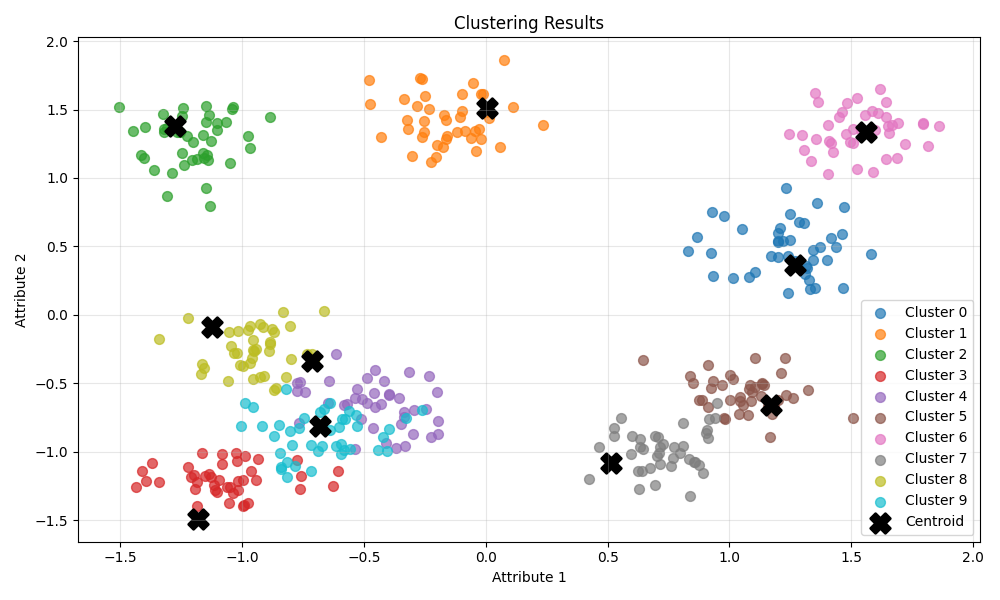
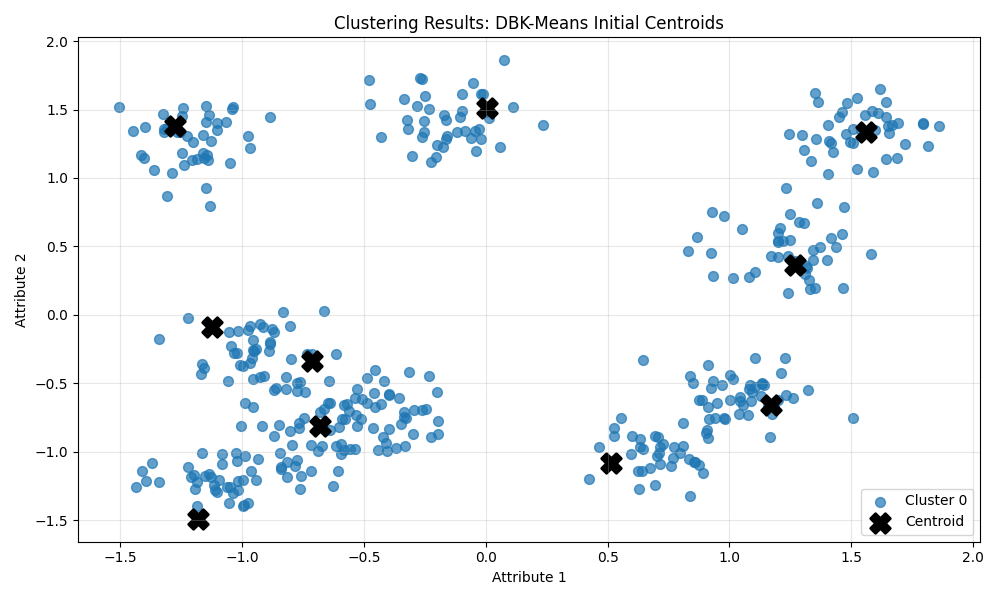
adding the working comparisonsgit add .! yippee

diff --git a/DBK-Means.py b/DBK-Means.py
@@ -10,34 +10,22 @@ import time
 
 starttime = time.time()
 plotNum=0
-trainingData = pd.read_csv("skewedData.csv")
-labels2 = trainingData['label']
-trainingData = trainingData.drop(columns=['label'])
-trainingData = trainingData.values
-k=10
+
 
 def dbkMeans(input, k):
-    print('here!', time.time()-starttime)
-    input, scaler = normalizeFeatures(input)
-
     r0 = calculateR0(input)
-    #might be a problem?
     distMatrix = cdist(input, input, metric = "euclidean")
     localDensities = np.maximum(calculateLocalDensity(input, distMatrix, r0), 1e-10)
     selectedCentroidsIxs = selectCentroids(localDensities, distMatrix, k)
     selectedCentroidsPos = [list(input[ix]) for ix in selectedCentroidsIxs]
     selectedCentroidsPos = np.array(selectedCentroidsPos, dtype=np.float64)
-    plot(input, selectedCentroidsPos, labels2, k)
-    print('here!2', time.time()-starttime)
-
+    plot(input, selectedCentroidsPos, np.array([0 for i in range(len(input))], dtype=int),1)
 
     kmeans = KMeans(n_clusters = k, init=selectedCentroidsPos, n_init=1)
     kmeans.fit(input)
-    print('here!3', time.time()-starttime)
 
     centroids= kmeans.cluster_centers_
     labels = kmeans.labels_
-    print("Final centroids:", centroids)
     plot(input, centroids, labels, k)
     
 def selectCentroids(localDensities, distMatrix, k): #density-based k-means++
@@ -66,18 +54,56 @@ def normalizeFeatures(input): #scikit-learn z-score normalization; (x - mean)/st
     sl = StandardScaler()
     return sl.fit_transform(input), sl
 
+def normalKMeans(input, k):
+    initialCntrds = np.array([input[i] for i in range(k)]) 
+    plot(input, initialCntrds, np.array([0 for i in range(len(input))], dtype=int), k)
+    kmeans = KMeans(n_clusters = k, init= initialCntrds, n_init=1)
+    kmeans.fit(input)
+    plot(input, kmeans.cluster_centers_, kmeans.labels_, k)
+
+def kMeansPP(input, k):
+    initialKMeansPP = KMeans(n_clusters=k, init='k-means++', n_init=1, max_iter=1, random_state=0)
+    initialKMeansPP.fit(input)
+    initialKMPP = initialKMeansPP.cluster_centers_
+    plot(input, initialKMPP, np.array([0 for i in range(len(input))], dtype=int), k)
+    fullKMeansPP = KMeans(n_clusters=k, init='k-means++', random_state=0, n_init='auto')
+    fullKMeansPP.fit(input)
+    plot(input, fullKMeansPP.cluster_centers_, fullKMeansPP.labels_, k)
+
 def plot(input, centroids, labels, k): #make a pretty looking plot
     global plotNum
-    print(type(centroids))
     plt.figure(figsize=(10, 6))
     for i in range(k):
         cluster_points = input[labels == i]
         plt.scatter(cluster_points[:, 0], cluster_points[:, 1], label=f"Cluster {i}", alpha=0.7, s=50)
     plt.scatter(centroids[:, 0], centroids[:, 1], color="black", marker="X", s=200, label="Centroid", linewidths=2)
-    plt.xlabel("Attribute 1"); plt.ylabel("Attribute 2"); plt.title(f"Clustering Results")
-    plt.legend(); plt.grid(True, alpha=0.3); plt.tight_layout(); plt.savefig(f"dbkPlot{plotNum}.png")
+    plt.xlabel("Attribute 1")
+    plt.ylabel("Attribute 2")
+    plt.title(f"Clustering Results: {["DBK-Means Initial Centroids", "DBK-Means Final Clusters", "K-Means Initial Centroids", "K-Means Final Centroids", "K-Means++ Initial Centroids", "K-Means Final Centroids"][plotNum]}")
+    plt.legend(loc="lower right")
+    plt.grid(True, alpha=0.3)
+    plt.tight_layout()
+    plt.savefig(f"dbkPlot{plotNum}.png")
     plotNum+=1
 
-dbkMeans(trainingData, k)
+def main(k):
+    trainingData = pd.read_csv("skewedData.csv")
+    trainingData = trainingData.drop(columns=["label"])
+    trainingData = trainingData.values
+    trainingData = normalizeFeatures(trainingData)[0]
+    print(f"DBKMeans commencing; {round(time.time()-starttime, 3)}s elapsed")
+    dbkMeans(trainingData, k)
+    print(f"DBKMeans finished; {round(time.time()-starttime, 3)}s elapsed")
+    print(f"KMeans commencing; {round(time.time()-starttime, 3)}s elapsed")
+    normalKMeans(trainingData, k)
+    print(f"KMeans finished; {round(time.time()-starttime, 3)}s elapsed")
+    print(f"KMeans++ commencing; {round(time.time()-starttime, 3)}s elapsed")
+    kMeansPP(trainingData, k)
+    print(f"KMeans++ finished; {round(time.time()-starttime, 3)}s elapsed")
+
+
+
+
+main(10)
 
 
